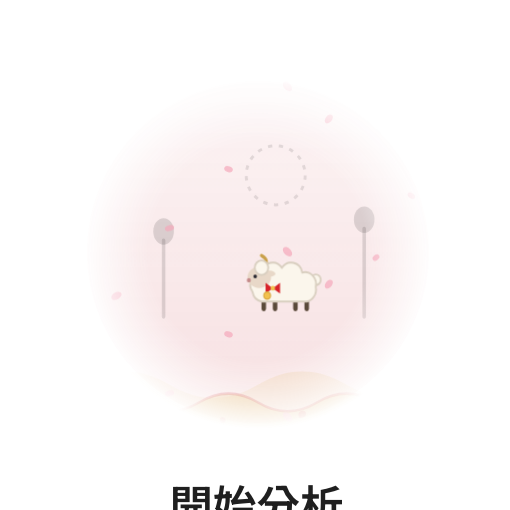
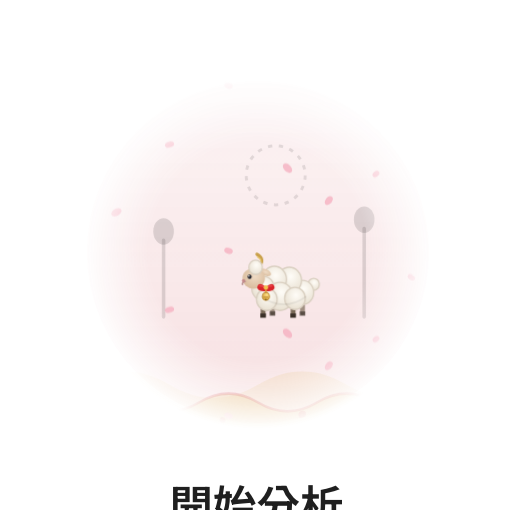
chore(shots): 第六版——角色重畫

diff --git a/docs/festive-shots/README.md b/docs/festive-shots/README.md
@@ -18,7 +18,7 @@
 | 聖誕 | ![](10-floor-behind-composer-christmas.png) |
 | 新年 | ![](11-floor-behind-composer-lunarNewYear.png) |
 
-## 圓窗（第五版）：聖誕老公公、羊年的羊、小幽靈、嫦娥
+## 圓窗（第六版，重畫得細一點）：聖誕老公公、羊年的羊、小幽靈、嫦娥
 
 | | |
 |---|---|
